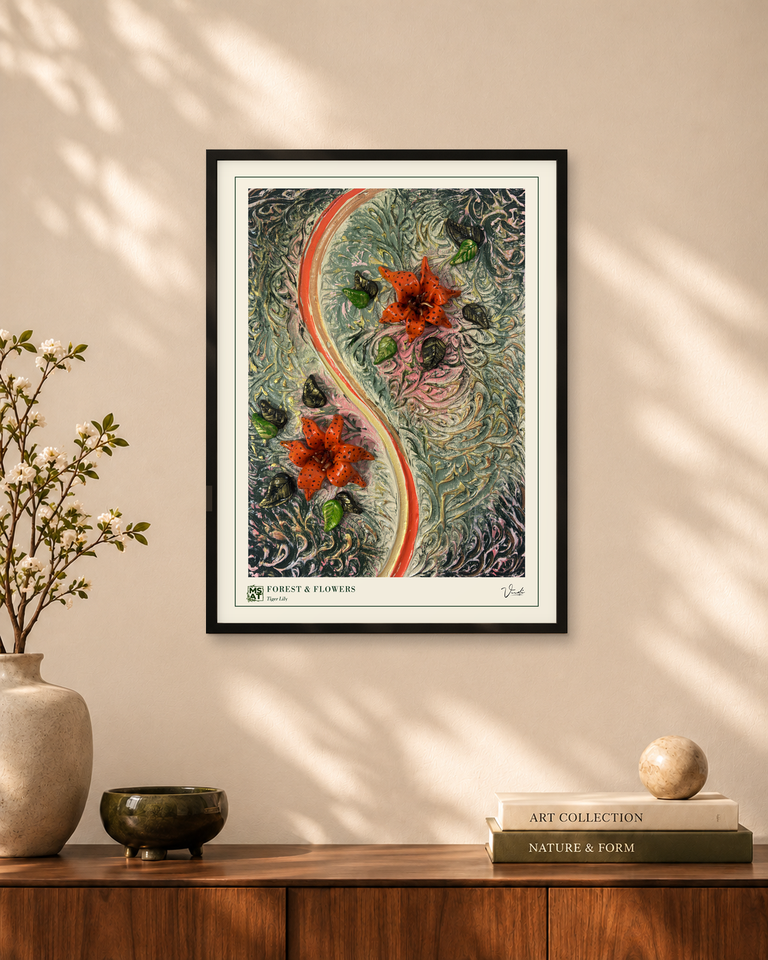
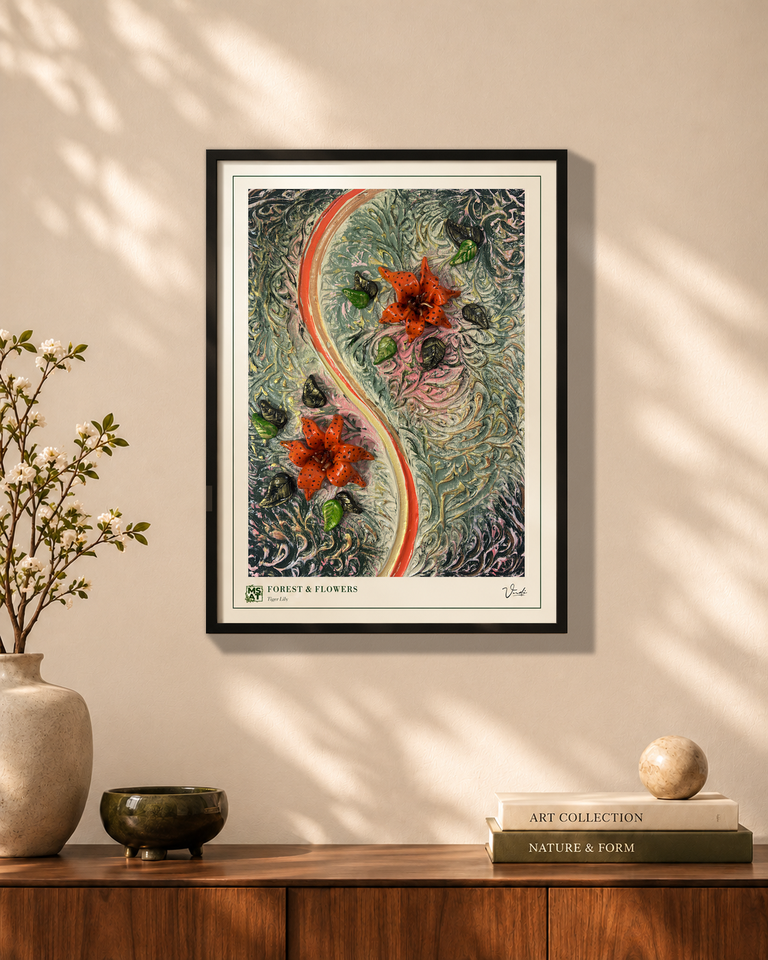
Scale approved 12x16 photographed prints directly for 9x12 [skip netlify]

Changed region(s): [[0.2812, 0.1562, 0.7812, 0.6875], [0.5938, 0.5, 0.625, 0.5312]]

diff --git a/tools/studio-gallery/approved_small.py b/tools/studio-gallery/approved_small.py
@@ -1,0 +1,49 @@
+"""Scale the approved photographed frame/print, rather than rebuilding its paper.
+Uses lossless reviewed collection images and the supplied clean room; no AI.
+"""
+from pathlib import Path
+import argparse,hashlib,json
+import numpy as np
+from PIL import Image,ImageFilter,ImageDraw
+p=argparse.ArgumentParser(description=__doc__);p.add_argument('--review-dir',type=Path,required=True);args=p.parse_args()
+repo=Path(__file__).resolve().parents[2];args.review_dir.mkdir(parents=True,exist_ok=True)
+clean=Image.open(repo/'assets/studio-mockups/approved-clean-room.png').convert('RGB')
+reference=Image.open(repo/'public/studio-editions/approved/mother-nature-gallery-still-life.png').convert('RGB')
+frame_box=(213,100,917,1044);center=(565,572);small_box=(301,218,829,926)
+published=json.loads((repo/'docs/exact-gallery-published-assets.json').read_text());records=[]
+# Trace the approved photograph's cast-shadow silhouette, rather than copy
+# wall pixels (the supplied clean plate has different fine wall texture).
+# Derive its neutral attenuation from the interior of the photographed shadow.
+a=np.asarray(reference.filter(ImageFilter.GaussianBlur(2)),dtype=float)
+b=np.asarray(clean.filter(ImageFilter.GaussianBlur(2)),dtype=float)
+ratio=np.median(a/np.maximum(b,1),axis=2)
+opacity=float(np.clip(1-np.median(ratio[200:900,930:949]),.20,.40))
+shadow=Image.new('L',clean.size);d=ImageDraw.Draw(shadow)
+d.polygon([(213,100),(917,100),(970,128),(970,1082),(246,1082),(213,1044)],fill=round(255*opacity))
+shadow=shadow.filter(ImageFilter.GaussianBlur(4))
+# Scale only the shadow field about the frame center; scene never moves.
+shadow=shadow.transform(clean.size,Image.Transform.AFFINE,(1/.75,0,center[0]*(1-1/.75),0,1/.75,center[1]*(1-1/.75)),Image.Resampling.BICUBIC)
+base=np.asarray(clean);alpha=np.asarray(shadow,dtype=float)/255
+wall=Image.fromarray(np.round(base*(1-alpha[:,:,None])).clip(0,255).astype('uint8'))
+for entry in published:
+ slug=entry['artworkId'];path=repo/f'public/studio-editions/exact-gallery/{slug}-1122.webp';approved=Image.open(path).convert('RGB')
+ assert hashlib.sha256(np.asarray(approved).tobytes()).hexdigest()==entry['nativeDecodedRgbSha256']
+ # Keep the complete photographed frame, paper warmth, printed border and inks.
+ frame=np.asarray(approved.crop(frame_box)).copy()
+ # A foreground branch crossed the large frame's far-left edge. It belongs to
+ # the stationary room, not the resized object; restore only that frame strip.
+ yy,xx=np.indices(frame.shape[:2]);leaf=(xx<18)&(frame[:,:,1].astype(int)-frame[:,:,2]>22)&(frame[:,:,0]<200)&(frame.max(axis=2)>70)
+ cleanup=np.asarray(Image.fromarray((leaf*255).astype('uint8')).filter(ImageFilter.MaxFilter(5)))>0;cleanup[655:705,:12]=True
+ donor=np.median(frame[200:400],axis=0).astype('uint8');frame[cleanup]=np.broadcast_to(donor,frame.shape)[cleanup]
+ scaled=Image.fromarray(frame).resize((528,708),Image.Resampling.LANCZOS)
+ final=wall.copy();final.paste(scaled,small_box[:2]);pixels=np.asarray(final)
+ assert np.array_equal(pixels[218:926,301:829],np.asarray(scaled))
+ allowed=np.asarray(shadow)>0;allowed[218:926,301:829]=True
+ assert np.array_equal(pixels[~allowed],base[~allowed])
+ final.save(args.review_dir/f'{slug}-9x12.png',icc_profile=approved.info.get('icc_profile',b''))
+ for width in [480,768,1122]:
+  image=final if width==1122 else final.resize((width,round(1402*width/1122)),Image.Resampling.LANCZOS)
+  image.save(repo/f'public/studio-editions/size-gallery/{slug}-9x12-{width}.webp','WEBP',lossless=True,method=6,icc_profile=approved.info.get('icc_profile',b''))
+ records.append({'artworkId':slug,'approvedLargeRgbSha256':entry['nativeDecodedRgbSha256'],'largeFrameBounds':list(frame_box),'smallFrameBounds':list(small_box),'linearScale':.75,'sameCenter':list(center),'directApprovedFrameResample':True,'paperRecolored':False,'roomOutsideCompositeChangedPixels':0,'nativeRgbSha256':hashlib.sha256(pixels.tobytes()).hexdigest(),'foregroundFrameCleanupPixels':int(cleanup.sum())})
+ print(slug,'approved frame and paper scaled exactly 75%; room unchanged outside composite',flush=True)
+(repo/'docs/approved-small-mockup-audit.json').write_text(json.dumps(records,indent=2)+'\n')

diff --git a/docs/approved-small-mockups.md b/docs/approved-small-mockups.md
@@ -1,0 +1,17 @@
+# Direct approved 12 × 16 to 9 × 12 scaling
+
+The collection images and 12 × 16 product views use the same lossless approved room composites. Earlier smaller variants rebuilt the paper from authentic print masters, causing differences in paper tone, borders, and inner shading. This method instead resamples the approved photographed frame and complete print as a single object.
+
+- Source: native 1122 × 1402 collection WebPs, verified against their reviewed PNG decoded-RGB hashes. No screenshot extraction or artwork regeneration.
+- Large frame bounds: (213, 100)–(917, 1044), 704 × 944 pixels. Smaller bounds: (301, 218)–(829, 926), 528 × 708 pixels. Both centers: (565, 572). Each linear dimension is exactly 75%.
+- Paper, print colors, typography, border, monogram, signature, and inner-frame shading are scaled together, without new color correction.
+- A foreground branch crossing a tiny portion of the large frame's far-left edge is removed from that frame-only strip using the same frame's column samples. The supplied clean-room branch stays stationary.
+- The cast shadow follows a traced silhouette from the approved photograph, scaled around the same center. Its neutral opacity is sampled from the approved shadow against the supplied clean plate. Wall texture is not copied into the shadow; this avoids rectangular patches from fine texture differences between photographs. The cast shadow is a reconstructed lighting layer, not a claim of pixel-for-pixel photographic extraction.
+- The artist-supplied clean room supplies the wall behind the smaller object. All pixels outside the smaller composite region remain identical to that clean plate. The approved large photograph has slight background differences from the separate clean plate; switching sizes is therefore not a claim of pixel-identical background across those two supplied photographs.
+- All existing 12 × 16 and collection files are untouched. Only fifteen 9 × 12 derivatives change. Prices, selection state, galleries, content, and inventory stay unchanged.
+
+Run `python tools/studio-gallery/approved_small.py --review-dir /tmp/approved-small` with existing Pillow and NumPy. It verifies approved source hashes, exact scaled-frame pixels, and unchanged surrounding room, and records `approved-small-mockup-audit.json`. The older `size_variants.py` and its historical audits describe the superseded rebuilt-paper method; use this generator for current smaller assets.
+
+Native comparison proofs: `/workspace/previews/approved-small/comparison.html`. Actual product-page desktop/mobile captures: `/workspace/previews/approved-small-site/comparison.html`. Review is required before merge or production publishing. The PR #81 checkpoint tag remains available.
+
+Validation: all 129 tests (23 files), TypeScript/production build, SEO checks, and whitespace validation passed. Actual browser checks passed on all five products at 390/768/1440px, including $45/$95, hero/thumbnail synchronization, Artwork Detail persistence, exact small-view restoration, no page reload, and no overflow. Independently detected frame ratios were 0.7488–0.7494 wide and 0.7518–0.7519 high after screen-pixel rounding, with centers aligned within 1.5px. Existing catalog metadata warnings are unchanged.

diff --git a/docs/size-aware-studio-mockups.md b/docs/size-aware-studio-mockups.md
@@ -45,3 +45,7 @@ Changing size now preserves the selected gallery view, including Artwork Detail.
 ## Approved 12 × 16 collection reference
 
 The artist subsequently requested that product pages reuse the collection-card photograph for the 12 × 16 In a Space view. `studioGallery` therefore uses `studioPrimaryImage` for 12 × 16, sharing the exact image object and responsive variants with collection cards. The 9 × 12 view retains its size-gallery assets and reviewed lighting. The main image, thumbnail, and fullscreen view use the same selected source. No image assets are modified by this reference correction. Earlier geometry audits describe the generated size-gallery composites; they are not a pixel-calibration assertion about the collection photograph now selected at runtime.
+
+## Direct smaller-version source
+
+The smaller mockups now scale the approved collection frame/print directly. See [approved smaller mockups](approved-small-mockups.md) for the current generator, source verification, shadow method, and limitations. Earlier rebuilt-paper and lighting audits remain historical records.
